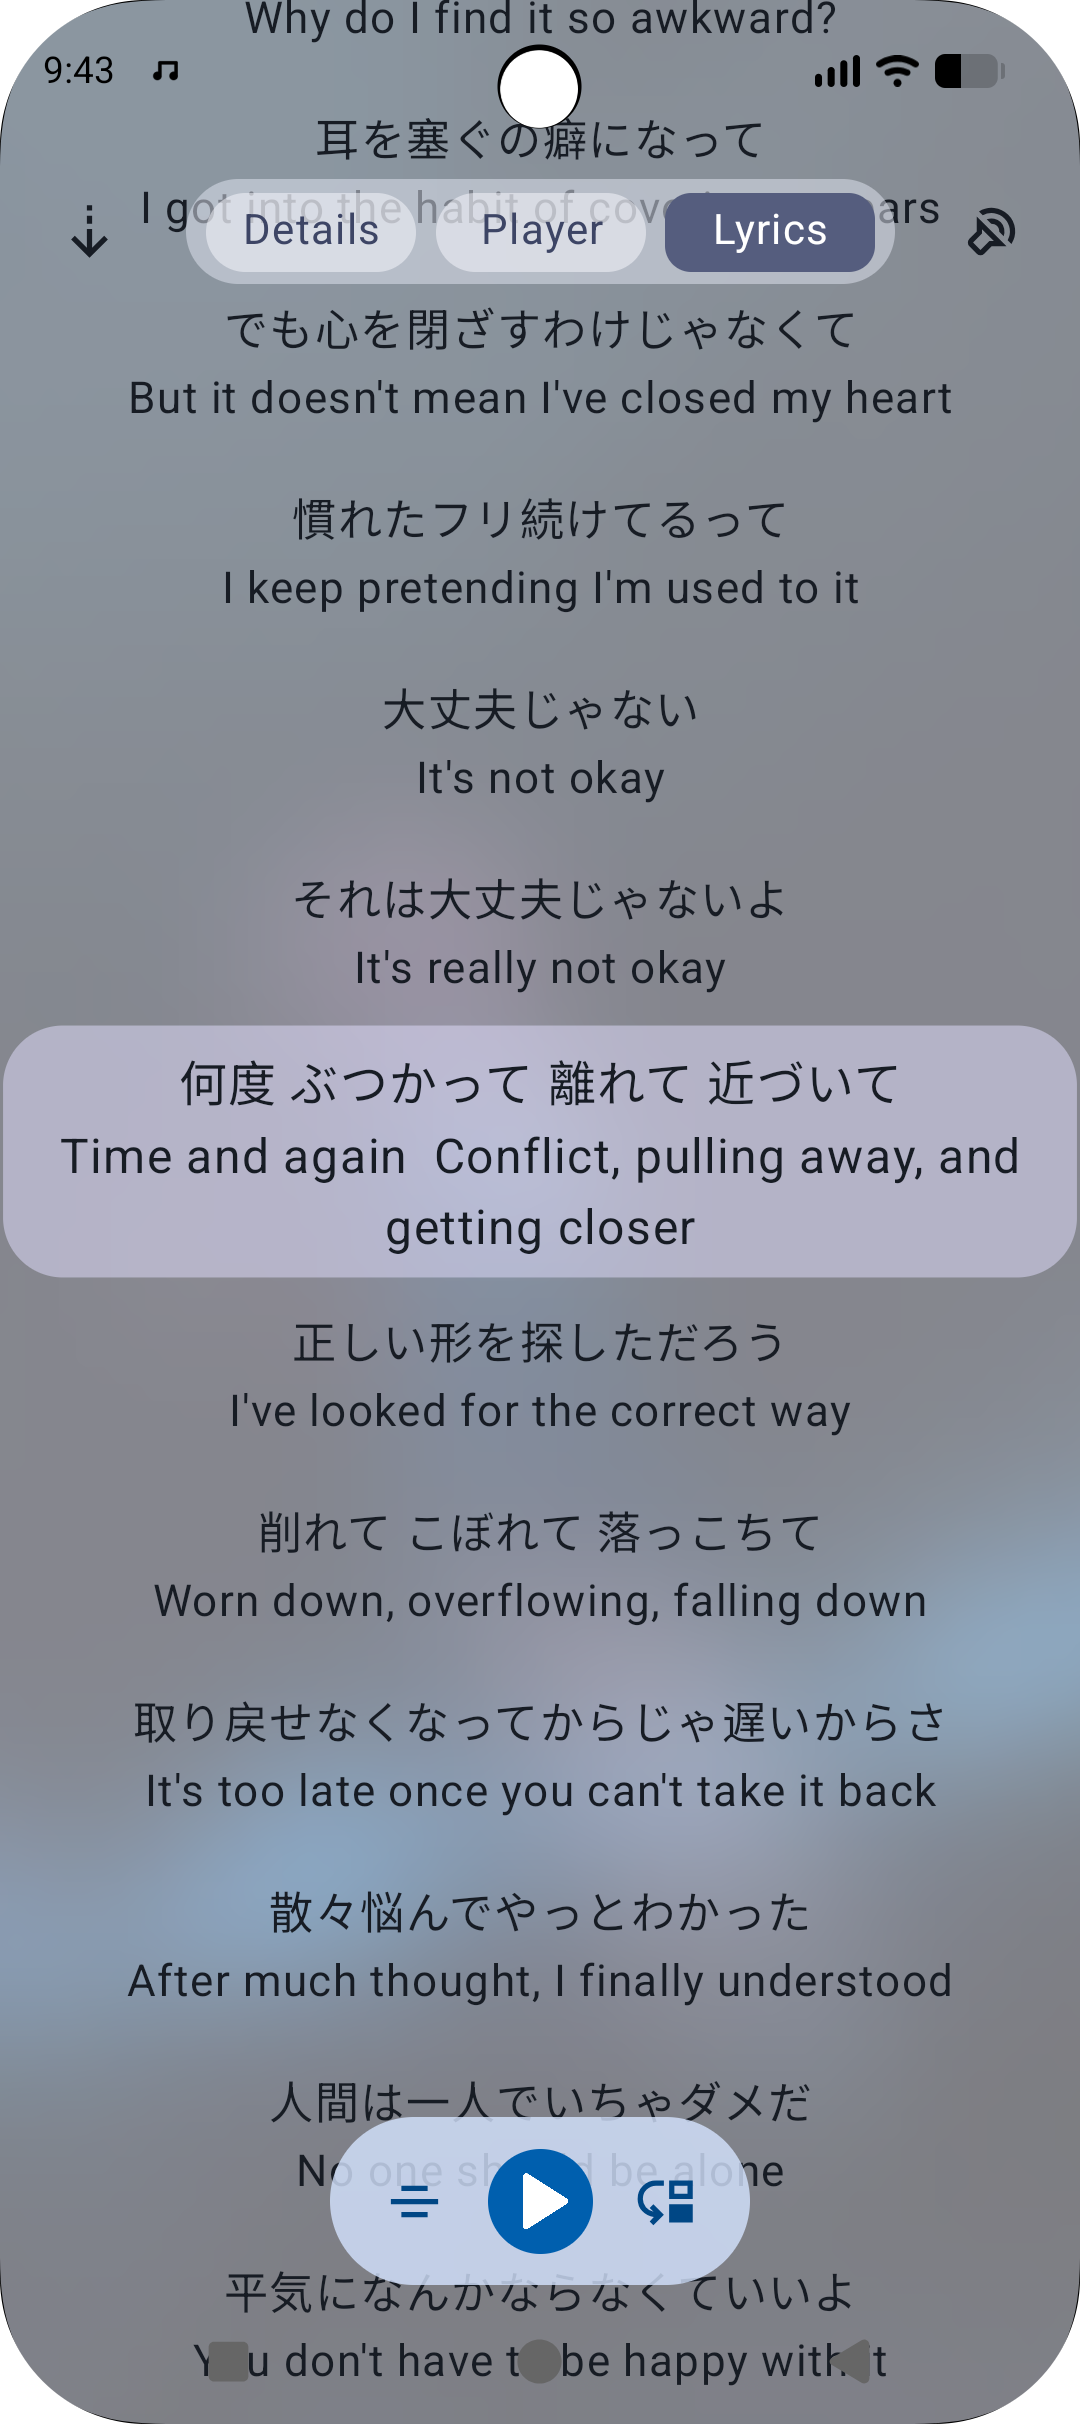
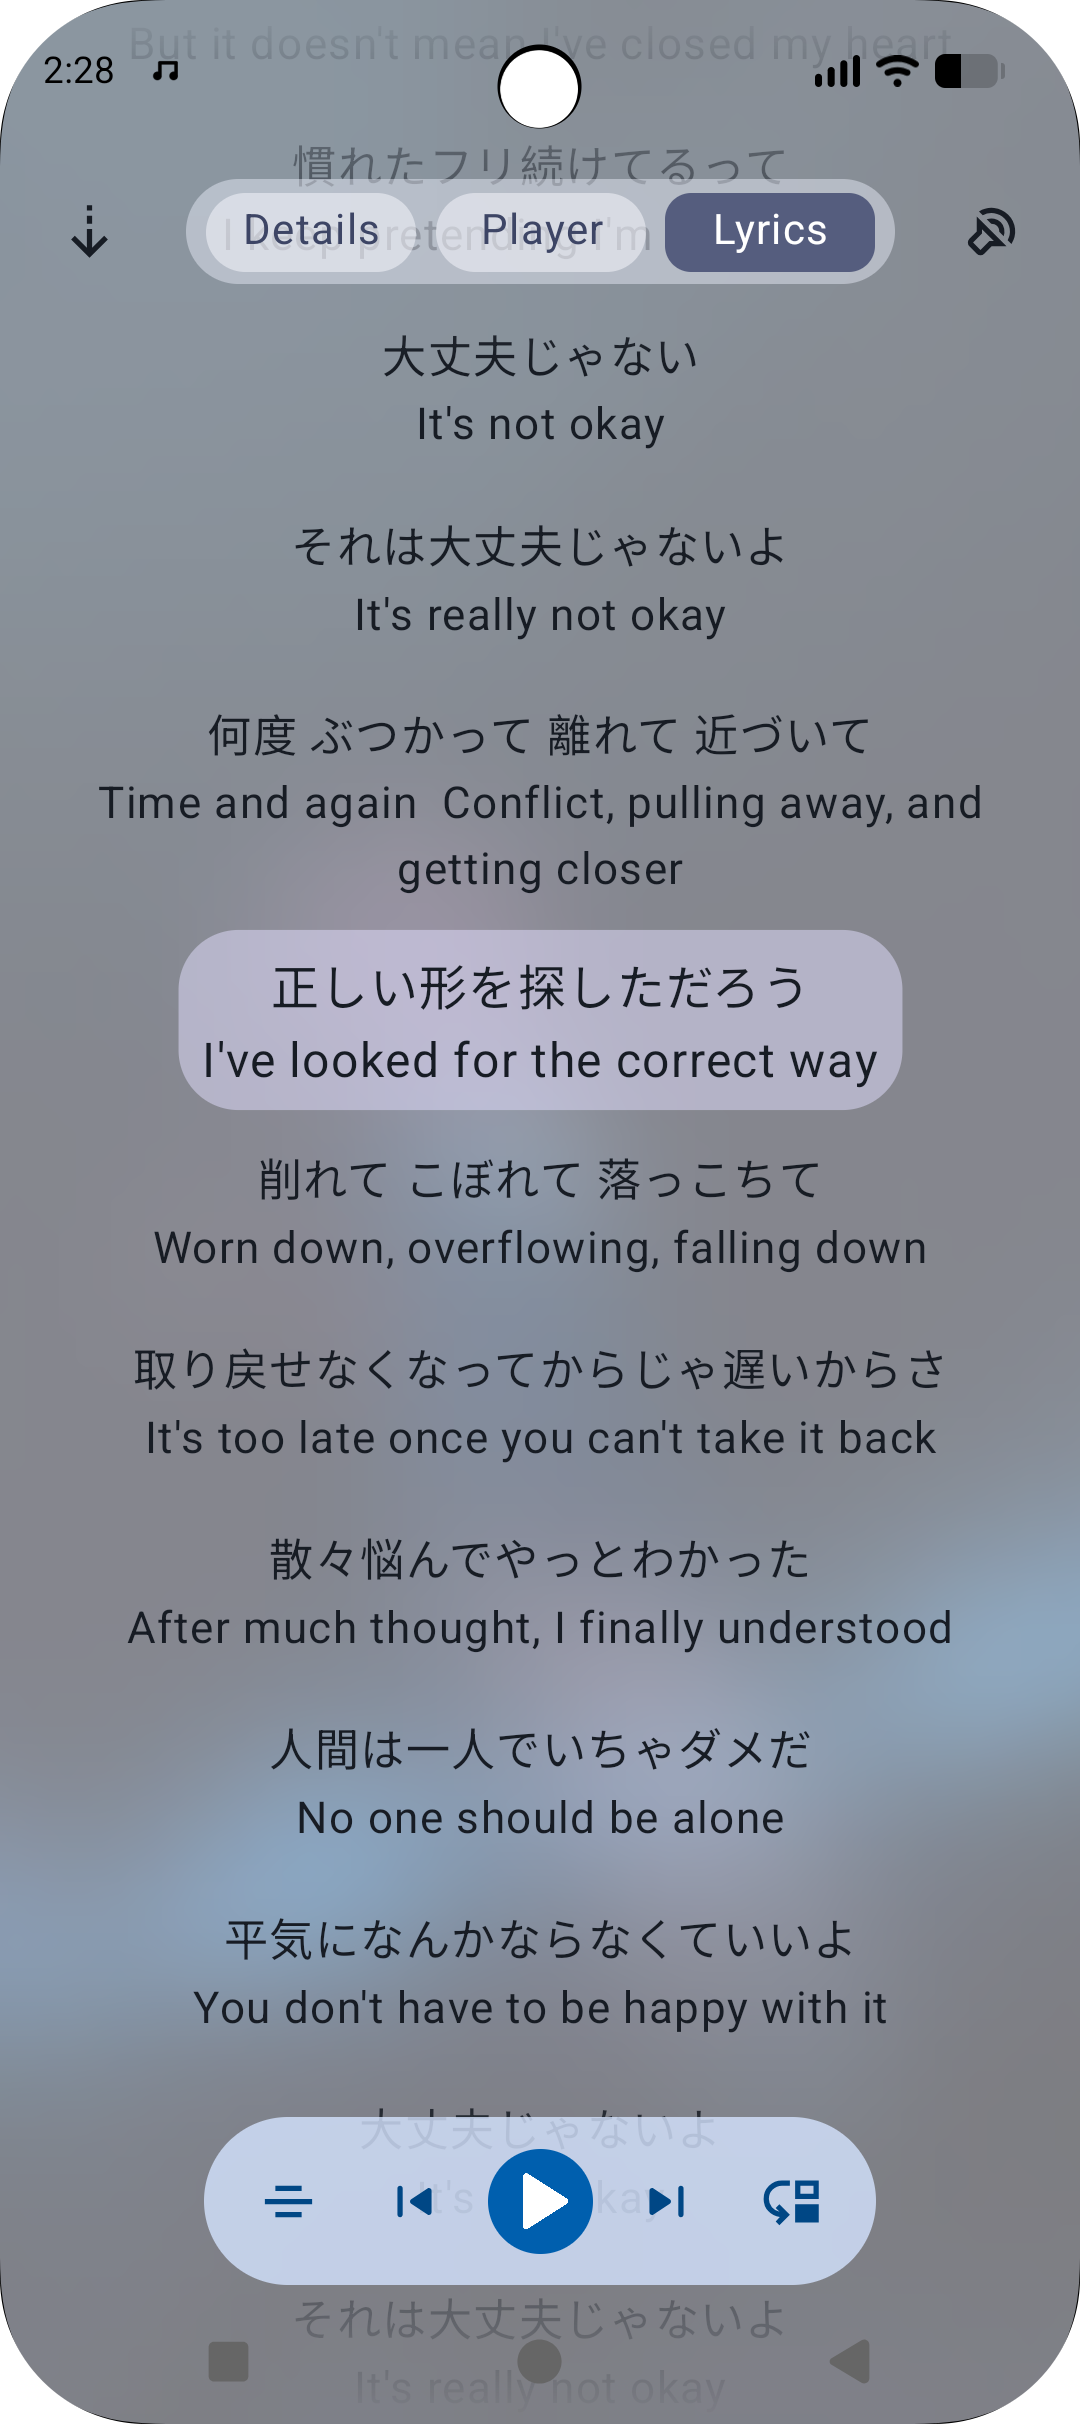
v1.4.0 + Improve landscape mode

diff --git a/app/src/main/java/mb28/crysongs/ui/LandscapePage.kt b/app/src/main/java/mb28/crysongs/ui/LandscapePage.kt
@@ -1,0 +1,156 @@
+package mb28.crysongs.ui
+
+import android.graphics.Bitmap
+import androidx.compose.foundation.Image
+import androidx.compose.foundation.layout.Arrangement
+import androidx.compose.foundation.layout.Box
+import androidx.compose.foundation.layout.Column
+import androidx.compose.foundation.layout.Row
+import androidx.compose.foundation.layout.Spacer
+import androidx.compose.foundation.layout.calculateEndPadding
+import androidx.compose.foundation.layout.calculateStartPadding
+import androidx.compose.foundation.layout.fillMaxSize
+import androidx.compose.foundation.layout.fillMaxWidth
+import androidx.compose.foundation.layout.height
+import androidx.compose.foundation.layout.padding
+import androidx.compose.foundation.layout.size
+import androidx.compose.foundation.layout.width
+import androidx.compose.material3.FloatingToolbarDefaults
+import androidx.compose.material3.Icon
+import androidx.compose.material3.MaterialTheme
+import androidx.compose.material3.NavigationRailItem
+import androidx.compose.material3.Scaffold
+import androidx.compose.material3.Text
+import androidx.compose.material3.VerticalFloatingToolbar
+import androidx.compose.runtime.Composable
+import androidx.compose.runtime.getValue
+import androidx.compose.runtime.mutableIntStateOf
+import androidx.compose.runtime.remember
+import androidx.compose.runtime.setValue
+import androidx.compose.ui.Alignment
+import androidx.compose.ui.Modifier
+import androidx.compose.ui.draw.alpha
+import androidx.compose.ui.draw.blur
+import androidx.compose.ui.graphics.asImageBitmap
+import androidx.compose.ui.layout.ContentScale
+import androidx.compose.ui.text.style.TextOverflow
+import androidx.compose.ui.unit.LayoutDirection
+import androidx.compose.ui.unit.dp
+import androidx.compose.ui.unit.sp
+import mb28.crysongs.Cover
+import mb28.crysongs.MainActivity
+import mb28.crysongs.core.Settings
+import mb28.crysongs.icons.folder
+import mb28.crysongs.icons.library_music
+import mb28.crysongs.icons.music_note_2
+import mb28.crysongs.icons.queue_music
+import mb28.crysongs.icons.search
+import mb28.crysongs.nowPlayingTags
+import mb28.crysongs.privateNowPlayingCover
+import mb28.crysongs.ui.fullscreen_player.FSPlayerButtonsRow
+import mb28.crysongs.ui.fullscreen_player.FSProgressBarRow
+import mb28.crysongs.ui.more_pages.FoldersPage
+import mb28.crysongs.ui.more_pages.PlaylistsPage
+import mb28.crysongs.ui.more_pages.QueryPage
+import mb28.crysongs.ui.more_pages.SearchPage
+
+@Composable
+fun LandscapePage(activity: MainActivity) {
+    var selectedTab by remember { mutableIntStateOf(0) }
+
+    Scaffold(Modifier.fillMaxSize()) { paddingValues ->
+        Box {
+            if (privateNowPlayingCover != null) {
+                Image(
+                    (privateNowPlayingCover as Bitmap).asImageBitmap(), null,
+                    contentScale = ContentScale.Crop,
+                    modifier = Modifier
+                        .fillMaxSize()
+                        .blur(Settings.backgroundBlurRadius.dp)
+                        .alpha(0.5f),
+                )
+            }
+
+            Row(
+                Modifier.padding(
+                    start = paddingValues.calculateStartPadding(LayoutDirection.Ltr),
+                    end = paddingValues.calculateEndPadding(LayoutDirection.Ltr)
+                ),
+                Arrangement.Center,
+                Alignment.CenterVertically
+            ) {
+                VerticalFloatingToolbar(
+                    true,
+                    modifier = Modifier.width(65.dp),
+                    colors = FloatingToolbarDefaults.standardFloatingToolbarColors(
+                        MaterialTheme.colorScheme.surfaceBright.copy(0.5f)
+                    )
+                ) {
+                    Spacer(Modifier.height(5.dp))
+                    NavigationRailItem(
+                        selectedTab == 0,
+                        { selectedTab = 0 },
+                        { Icon(music_note_2, null) },
+                        label = { Text("Tracks") }
+                    )
+                    NavigationRailItem(
+                        selectedTab == 1,
+                        { selectedTab = 1 },
+                        { Icon(queue_music, null) },
+                        label = { Text("Query") }
+                    )
+                    NavigationRailItem(
+                        selectedTab == 2,
+                        { selectedTab = 2 },
+                        { Icon(library_music, null) },
+                        label = { Text("Playlists") }
+                    )
+                    NavigationRailItem(
+                        selectedTab == 3,
+                        { selectedTab = 3 },
+                        { Icon(folder, null) },
+                        label = { Text("Folders") }
+                    )
+                    NavigationRailItem(
+                        selectedTab == 4,
+                        { selectedTab = 4 },
+                        { Icon(search, null) },
+                        label = { Text("Search") }
+                    )
+                    Spacer(Modifier.height(5.dp))
+                }
+
+                Box(Modifier.fillMaxWidth(0.55f)) {
+                    when(selectedTab) {
+                        0 -> TracksList()
+                        1 -> QueryPage()
+                        2 -> PlaylistsPage()
+                        3 -> FoldersPage()
+                        else -> SearchPage(activity)
+                    }
+
+                }
+
+                Column(
+                    horizontalAlignment = Alignment.CenterHorizontally,
+                    verticalArrangement = Arrangement.SpaceBetween
+                ) {
+                    Column(
+                        Modifier.fillMaxWidth(),
+                        horizontalAlignment = Alignment.CenterHorizontally
+                    ) {
+                        Spacer(Modifier.height(5.dp))
+                        Cover(Modifier.size(180.dp))
+                        Spacer(Modifier.height(5.dp))
+                        Text(nowPlayingTags?.title ?: "Play something", fontSize = 24.sp, maxLines = 1, overflow = TextOverflow.Ellipsis)
+                        Spacer(Modifier.height(5.dp))
+                        Text(nowPlayingTags?.artist ?: "🎵🎵🎵", fontSize = 16.sp, maxLines = 1, overflow = TextOverflow.Ellipsis)
+                    }
+                    FSProgressBarRow()
+                    Spacer(Modifier.height(5.dp))
+                    FSPlayerButtonsRow()
+                }
+            }
+        }
+    }
+}

diff --git a/app/src/main/java/mb28/crysongs/FullscreenPlayerActivity.kt b/app/src/main/java/mb28/crysongs/FullscreenPlayerActivity.kt
@@ -24,6 +24,7 @@ import androidx.compose.foundation.layout.Box
 import androidx.compose.foundation.layout.Column
 import androidx.compose.foundation.layout.PaddingValues
 import androidx.compose.foundation.layout.Spacer
+import androidx.compose.foundation.layout.aspectRatio
 import androidx.compose.foundation.layout.fillMaxSize
 import androidx.compose.foundation.layout.fillMaxWidth
 import androidx.compose.foundation.layout.height
@@ -50,7 +51,6 @@ import androidx.compose.ui.draw.alpha
 import androidx.compose.ui.draw.blur
 import androidx.compose.ui.draw.clip
 import androidx.compose.ui.draw.scale
-import androidx.compose.ui.graphics.Brush
 import androidx.compose.ui.graphics.Color
 import androidx.compose.ui.graphics.asImageBitmap
 import androidx.compose.ui.input.pointer.pointerInput
@@ -75,7 +75,6 @@ import mb28.crysongs.ui.fullscreen_player.FSPlayerButtonsRow
 import mb28.crysongs.ui.fullscreen_player.FSProgressBarRow
 import mb28.crysongs.ui.fullscreen_player.FSTagsTab
 import mb28.crysongs.ui.other.audioBand
-import mb28.crysongs.ui.other.fadingEdge
 import mb28.crysongs.ui.other.fadingEdgeVertical
 import mb28.crysongs.ui.theme.CrySongsTheme
 import kotlin.coroutines.cancellation.CancellationException
@@ -255,7 +254,7 @@ private fun Pager(innerPadding: PaddingValues, activity: Activity, activityOffse
                     FSTagsTab(
                         Modifier
                         .fillMaxSize()
-                            .fadingEdgeVertical()
+                        .fadingEdgeVertical()
                         .padding(horizontal = 20.dp)
                     )
                 }
@@ -272,7 +271,7 @@ private fun Pager(innerPadding: PaddingValues, activity: Activity, activityOffse
 
 @OptIn(ExperimentalMaterial3ExpressiveApi::class)
 @Composable
-private fun Cover(modifier: Modifier = Modifier) {
+fun Cover(modifier: Modifier = Modifier) {
     val coverShape =  when(Settings.coverShapeMode) {
         -1 -> RoundedCornerShape(5.dp)
         1 -> {
@@ -309,7 +308,7 @@ private fun Cover(modifier: Modifier = Modifier) {
 
     Box(
         modifier
-            .fillMaxWidth()
+            .aspectRatio(1f)
             .scale(animScale)
             .background(
                 MaterialTheme.colorScheme.surfaceContainer,
@@ -330,7 +329,7 @@ private fun Cover(modifier: Modifier = Modifier) {
         Image(
             nowPlayingCover,
             "Track cover",
-            contentScale = ContentScale.FillWidth,
+            contentScale = ContentScale.Crop,
             modifier = Modifier.fillMaxWidth()
         )
     }

diff --git a/app/src/main/java/mb28/crysongs/MainActivity.kt b/app/src/main/java/mb28/crysongs/MainActivity.kt
@@ -3,6 +3,7 @@ package mb28.crysongs
 import android.annotation.SuppressLint
 import android.app.WallpaperManager
 import android.content.Intent
+import android.content.pm.ActivityInfo
 import android.graphics.Color
 import android.os.Bundle
 import android.os.Environment
@@ -56,6 +57,7 @@ import androidx.compose.ui.draw.scale
 import androidx.compose.ui.graphics.ImageBitmap
 import androidx.compose.ui.graphics.asImageBitmap
 import androidx.compose.ui.graphics.toArgb
+import androidx.compose.ui.platform.LocalConfiguration
 import androidx.compose.ui.unit.dp
 import androidx.core.app.NotificationManagerCompat
 import androidx.core.content.getSystemService
@@ -69,6 +71,7 @@ import mb28.crysongs.core.openLink
 import mb28.crysongs.core.scheduleNotifications
 import mb28.crysongs.core.setupPermissions
 import mb28.crysongs.icons.settings
+import mb28.crysongs.ui.LandscapePage
 import mb28.crysongs.ui.MiniPlayer
 import mb28.crysongs.ui.PermissionsPage
 import mb28.crysongs.ui.TracksList
@@ -119,6 +122,8 @@ class MainActivity : ComponentActivity() {
             }
         }
 
+
+
         setContent {
             var backHeld by remember { mutableStateOf(false) }
             val animatedOpacity by animateFloatAsState(if (backHeld) 0.8f else 1f)
@@ -130,6 +135,11 @@ class MainActivity : ComponentActivity() {
             }
 
             CrySongsTheme {
+                if (LocalConfiguration.current.orientation == 2) {
+                    LandscapePage(this)
+                    return@CrySongsTheme
+                }
+
                 if (notificationColor == null) { notificationColor = MaterialTheme.colorScheme.primary.toArgb() }
                 val selectedIndex = rememberSaveable { mutableIntStateOf(Settings.navTabs[Settings.initTab]) }
                 val selectedSet = remember { mutableStateOf(Settings.initTab > 4) }

diff --git a/app/src/main/java/mb28/crysongs/ui/other/TrackTile.kt b/app/src/main/java/mb28/crysongs/ui/other/TrackTile.kt
@@ -14,6 +14,7 @@ import androidx.compose.foundation.layout.Box
 import androidx.compose.foundation.layout.Column
 import androidx.compose.foundation.layout.PaddingValues
 import androidx.compose.foundation.layout.Row
+import androidx.compose.foundation.layout.aspectRatio
 import androidx.compose.foundation.layout.fillMaxHeight
 import androidx.compose.foundation.layout.fillMaxWidth
 import androidx.compose.foundation.layout.height
@@ -134,7 +135,7 @@ fun TrackTile(
                     Image(
                         cover ?: noCoverBitmap!!,
                         "Track cover",
-                        contentScale = ContentScale.FillHeight,
+                        contentScale = ContentScale.Crop,
                         modifier = Modifier
                             .size(if (Settings.twoRowTrackCard) 50.dp else 73.dp)
                             .clickable { showMoreOptions = true }

diff --git a/README.md b/README.md
@@ -17,17 +17,18 @@ To-Do
 - [ ] Add edge lighting effect
 - [ ] Widget settings
 - [ ] Favorite folders/albums/artists
-- [ ] Better landscape support
 - [ ] Online lyric finder & downloader
+- [x] Better landscape support
 - [x] Tag editor
 
 ## Screenshots
 
-Screenshots are synced with v1.3.10
+Screenshots are synced with v1.4.0
 
 |                           | Light                          | Dark                           |
 |---------------------------|--------------------------------|--------------------------------|
 | Main                      | ![](/Images/S%20(1).png)       | ![](/Images/S%20(2).png)       |
 | Fullscreen<br/>miniplayer | ![](/Images/S%20(6).png)       | ![](/Images/S%20(3).png)       |
 | Lyrics                    | ![](/Images/S%20(4).png)       | ![](/Images/S%20(5).png)       |
+| Landscape                 | ![](/Images/LS%20(1).png)      | ![](/Images/LS%20(2).png)      |
 | Widgets                   | ![](/Images/Widgets%20(1).png) | ![](/Images/Widgets%20(2).png) |

diff --git a/Changelog.md b/Changelog.md
@@ -1,9 +1,10 @@
-## v1.3.11 (Upcoming)
-- Changed min supported android version back to 13
+## v1.4.0
+- Improve landscape mode
 - UI improvements
 - Add next & previous button in lyrics panel
+- Small bug fixes
 - Fixed [#3](https://github.com/mb0028/CrystalMusic/issues/3)
-- Some bug fixes
+- Changed min supported android version back to 13
 
 ## v1.3.10
 - Lyrics are now auto-scrolls if they have timestomp
